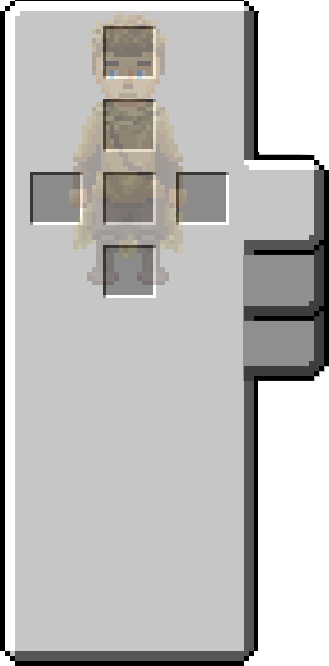
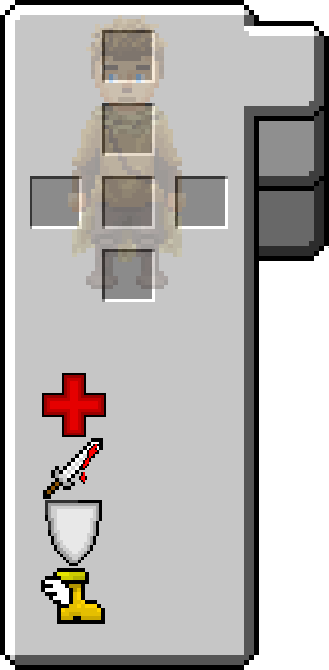
inventory position modification

diff --git a/src/inventory/inventory_stats.c b/src/inventory/inventory_stats.c
@@ -15,6 +15,7 @@ static void draw_text(inventory_t *inv, char *text, sfVector2f pos)
     sfText_setColor(t, sfBlack);
     sfText_setString(t, text);
     sfText_setPosition(t, pos);
+    sfText_setCharacterSize(t, 52);
     sfRenderWindow_drawText(inv->window, t, NULL);
     sfText_destroy(t);
 }
@@ -22,7 +23,7 @@ static void draw_text(inventory_t *inv, char *text, sfVector2f pos)
 static char *get_name(int state)
 {
     if (state == 0)
-        return mg_strdup("Jean");
+        return mg_strdup(" Jean");
     else if (state == 1)
         return mg_strdup("Nathan");
     else
@@ -37,11 +38,11 @@ static void inventory_draw_stats_speed(inventory_t *inv, char **buff)
     buff2 = mg_itoa(inv->stats[inv->state][2]);
     mg_strcat(buff, buff2);
     free(buff2);
-    mg_strcat(buff, "\nspeed: ");
+    mg_strcat(buff, "\n    ");
     buff2 = mg_itoa(inv->stats[inv->state][3]);
     mg_strcat(buff, buff2);
     free(buff2);
-    draw_text(inv, (*buff), (sfVector2f){100, 400});
+    draw_text(inv, (*buff), (sfVector2f){80, 345});
     free((*buff));
 }
 
@@ -51,14 +52,14 @@ void inventory_draw_stats(inventory_t *inv)
     char *buff2 = mg_itoa(inv->stats[inv->state][0] +
 compute_health_stat(inv, inv->state));
 
-    mg_strcat(&buff, "\nhp: ");
+    mg_strcat(&buff, "\n    ");
     mg_strcat(&buff, buff2);
     free(buff2);
-    mg_strcat(&buff, "\nattack: ");
+    mg_strcat(&buff, "\n    ");
     buff2 = mg_itoa(inv->stats[inv->state][1] +
 compute_attack_stat(inv, inv->state));
     mg_strcat(&buff, buff2);
     free(buff2);
-    mg_strcat(&buff, "\ndef: ");
+    mg_strcat(&buff, "\n    ");
     inventory_draw_stats_speed(inv, &buff);
 }

diff --git a/src/inventory/inventory_draw.c b/src/inventory/inventory_draw.c
@@ -33,8 +33,8 @@ void inventory_draw_debug(inventory_t *inv)
         draw_item_case(inv->window, stuff_grid[i].x, stuff_grid[i].y);
     for (int i = 0; i < INVENTORY_SIZE_Y; i++) {
         for (int j = 0; j < INVENTORY_SIZE_X; j++) {
-            x = 481 + j * (50 + 23);
-            y = 50 + i * (50 + 23);
+            x = 340 + j * (50 + 23);
+            y = 410 + i * (50 + 23);
             draw_item_case(inv->window, x, y);
         }
     }
@@ -57,7 +57,7 @@ void inventory_draw_stock(inventory_t *inv)
         current = inv->stock[i]->display;
         x = i % INVENTORY_SIZE_X;
         y = i / INVENTORY_SIZE_X;
-        current->pos = (sfVector2f){481 + x * 73, 50 + y * 73};
+        current->pos = (sfVector2f){340 + x * 73, 410 + y * 73};
         window_draw_dragndrop(inv->window, current);
     }
 }

diff --git a/src/inventory/inventory_event.c b/src/inventory/inventory_event.c
@@ -51,10 +51,10 @@ void inventory_event_select(inventory_t *inv)
         return;
     if (!sfMouse_isButtonPressed(sfMouseLeft))
         return;
-    if (p.x > 285 && p.x < 360 && p.y > 200 && p.y < 261)
+    if (p.x > 300 && p.x < 370 && p.y > 80 && p.y < 135)
         inv->state = 0;
-    if (p.x > 286 && p.x < 360 && p.y > 295 && p.y < 360)
+    if (p.x > 300 && p.x < 370 && p.y > 160 && p.y < 200)
         inv->state = 1;
-    if (p.x > 286 && p.x < 360 && p.y > 360 && p.y < 415)
+    if (p.x > 300 && p.x < 370 && p.y > 230 && p.y < 290)
         inv->state = 2;
 }

diff --git a/src/fight/delete_fight.c b/src/fight/delete_fight.c
@@ -15,11 +15,11 @@ static void add_item(rpg_t *rpg, fight_t *fight, obj_t **obj)
     int j = 0;
 
     if (fight->nb_fight == 1)
-        item = item_create(8, ini);
+        item = item_create(rand() % 12, ini);
     else if (fight->nb_fight == 0)
-        item = item_create(11, ini);
+        item = item_create(rand() % 12, ini);
     else
-        item = item_create(12, ini);
+        item = item_create(rand() % 12, ini);
     inventory_add_item(GAME.inv, item);
     for (int i = 0; i < 4; i++) {
         if (i == 1)

diff --git a/src/inventory/inventory_common.c b/src/inventory/inventory_common.c
@@ -25,8 +25,8 @@ int inventory_get_id_from_coord(sfRenderWindow *window)
     rect.height = 50;
     rect.width = 50;
     for (int i = 0; i < INVENTORY_SIZE; i++) {
-        rect.left = 481 + i % INVENTORY_SIZE_X * 73;
-        rect.top = 50 + i / INVENTORY_SIZE_X * 73;
+        rect.left = 340 + i % INVENTORY_SIZE_X * 73;
+        rect.top = 410 + i / INVENTORY_SIZE_X * 73;
         if (is_collided_mouse_rect(rect, window))
             return (i);
     }

diff --git a/src/inventory/inventory.c b/src/inventory/inventory.c
@@ -23,7 +23,7 @@ static void inventory_load_assets(inventory_t *inv)
     sfSprite_setTexture(inv->inv_widget[2], d, sfTrue);
     for (int i = 0; i < 3; i++)
         sfSprite_setPosition(inv->inv_widget[i], (sfVector2f){40, 40});
-    sfSprite_setPosition(inv->grid, (sfVector2f){450, 20});
+    sfSprite_setPosition(inv->grid, (sfVector2f){310, 377});
 }
 
 inventory_t *inventory_create(sfRenderWindow *window)

diff --git a/include/inventory.h b/include/inventory.h
@@ -126,8 +126,8 @@ int compute_attack_stat(inventory_t *inv, int nb_char);
 int compute_health_stat(inventory_t *inv, int nb_char);
 
 static const sfVector2f stuff_grid[6] = {
-{70, 214}, {145, 68},
-{145, 142}, {145, 214},
-{145, 287}, {218, 214}};
+{68, 214}, {143, 68},
+{143, 142}, {143, 214},
+{143, 287}, {216, 214}};
 
 #endif /* !INVENTORY_H_ */
